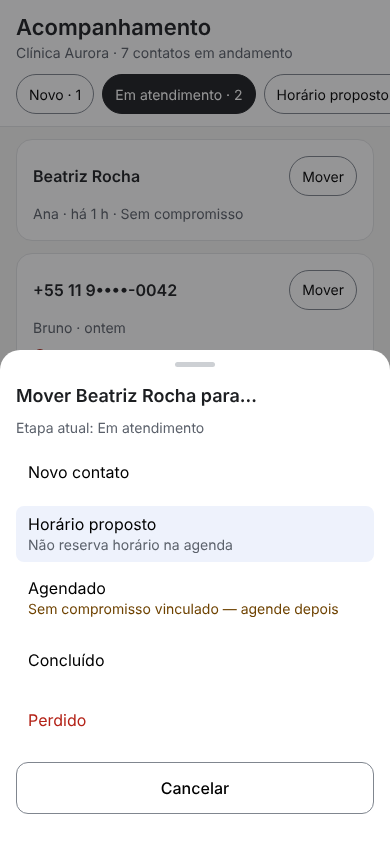
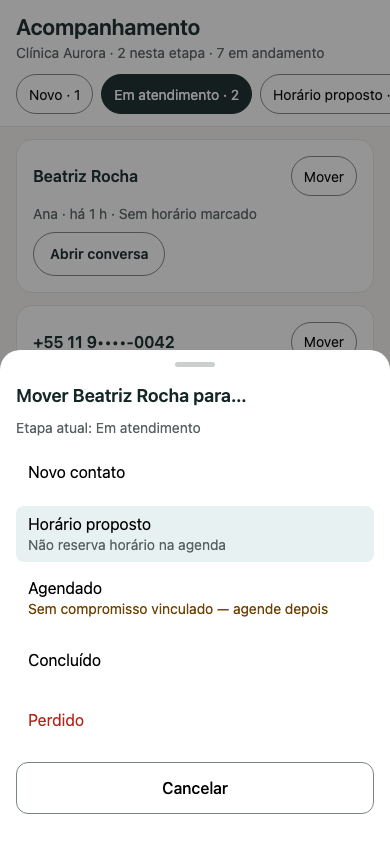
feat(painel): selo «Em breve» neutro, cabeçalho da conversa em 360 px, testes do Reservar bloco e mocks atualizados
- «Em breve» usa o tom neutro, sem competir com «Falta»
- o responsável no cabeçalho da conversa corta com reticências
- testes do Reservar bloco (resumo, «Outra», aviso opcional, janela fechada)
- mocks M-02 e M-05 (+ previews), screens.md e CHANGELOG do design

diff --git a/src/client/panel/screens/holds/ReservarBlocoSheet.test.tsx b/src/client/panel/screens/holds/ReservarBlocoSheet.test.tsx
@@ -1,0 +1,120 @@
+import { cleanup, render, screen, waitFor } from '@testing-library/react'
+import userEvent from '@testing-library/user-event'
+import { afterEach, beforeEach, describe, expect, it, vi } from 'vitest'
+import type { AvailabilitySlot, ClinicConfigSnapshot, PanelApi } from '../../api'
+import { civilMinuteToEpoch } from './holdFormat'
+import { ReservarBlocoSheet } from './ReservarBlocoSheet'
+
+const TZ = 'America/Sao_Paulo'
+
+function config(services: number): ClinicConfigSnapshot {
+  return {
+    settings: { tenantId: 't1', timezone: TZ, updatedAt: 1 },
+    services: Array.from({ length: services }, (_, i) => ({
+      id: `svc${i}`,
+      name: `Procedimento ${i + 1}`,
+      active: true,
+      durationMinutes: 60,
+      professionalIds: [],
+    })),
+    resources: [
+      { id: 'pro1', kind: 'professional', name: 'Dra. Ana', category: null, active: true, futureAppointmentCount: 0, createdAt: 1, updatedAt: 1 },
+    ],
+  } as unknown as ClinicConfigSnapshot
+}
+
+function setup(opts: { services?: number; windowOpen?: boolean } = {}) {
+  const onReserved = vi.fn()
+  const createHold = vi.fn().mockResolvedValue({})
+  const api = {
+    getClinicConfig: vi.fn().mockResolvedValue(config(opts.services ?? 1)),
+    queryAvailability: vi.fn().mockImplementation(async (_t: string, q: { date: string }) => {
+      const startsAt = civilMinuteToEpoch(q.date, 9 * 60, TZ)
+      const slot: AvailabilitySlot = {
+        startsAt,
+        endsAt: startsAt + 60 * 60_000,
+        occupiesUntil: startsAt + 60 * 60_000,
+        professionalId: 'pro1',
+        professionalName: 'Dra. Ana',
+        roomResourceId: null,
+        roomResourceName: null,
+      }
+      return { slots: [slot] }
+    }),
+    createHold,
+  } as unknown as PanelApi
+  render(
+    <ReservarBlocoSheet
+      open
+      tenantId="t1"
+      api={api}
+      generation={1}
+      conversationId="c1"
+      contactName="Maria Souza"
+      windowOpen={opts.windowOpen ?? true}
+      onClose={vi.fn()}
+      onReserved={onReserved}
+    />,
+  )
+  return { onReserved, createHold }
+}
+
+beforeEach(() => {
+  // 10h em São Paulo: o dia começa em hoje e o período em «Manhã».
+  vi.useFakeTimers({ toFake: ['Date'] })
+  vi.setSystemTime(new Date('2026-10-27T13:00:00Z'))
+})
+afterEach(() => {
+  cleanup()
+  vi.useRealTimers()
+})
+
+describe('ReservarBlocoSheet', () => {
+  it('com um único procedimento mostra o resumo e deixa «Alterar» abrir os campos', async () => {
+    setup()
+    expect(await screen.findByText('Procedimento 1 · Dra. Ana')).toBeTruthy()
+    await userEvent.click(screen.getByRole('button', { name: 'Alterar' }))
+    expect(screen.getByText('Procedimento')).toBeTruthy()
+  })
+
+  it('com vários procedimentos não escolhe nenhum sozinho', async () => {
+    setup({ services: 2 })
+    expect(await screen.findByText('Escolher procedimento')).toBeTruthy()
+    expect(screen.queryByRole('button', { name: 'Alterar' })).toBeNull()
+  })
+
+  it('o passo de 15 min só aparece depois de tocar em «Outra»', async () => {
+    setup()
+    await screen.findByText('Procedimento 1 · Dra. Ana')
+    expect(screen.queryByRole('button', { name: 'Mais 15 minutos' })).toBeNull()
+    await userEvent.click(screen.getByRole('button', { name: 'Outra' }))
+    expect(screen.getByRole('button', { name: 'Mais 15 minutos' })).toBeTruthy()
+  })
+
+  it('aviso à paciente vem ligado e envia o texto ao reservar', async () => {
+    const { onReserved, createHold } = setup()
+    const notify = await screen.findByRole('checkbox', { name: 'Avisar a paciente pelo WhatsApp' })
+    expect((notify as HTMLInputElement).checked).toBe(true)
+    await userEvent.click(await screen.findByRole('button', { name: /09:00 até 10:00/ }))
+    await userEvent.click(screen.getByRole('button', { name: 'Reservar horário' }))
+    await waitFor(() => expect(createHold).toHaveBeenCalled())
+    await waitFor(() => expect(onReserved).toHaveBeenCalled())
+    expect(typeof onReserved.mock.calls[0]![0]).toBe('string')
+  })
+
+  it('com o aviso desligado reserva sem mensagem', async () => {
+    const { onReserved, createHold } = setup()
+    await userEvent.click(await screen.findByRole('checkbox', { name: 'Avisar a paciente pelo WhatsApp' }))
+    expect(screen.getByText('A paciente não será avisada. O horário fica só na agenda.')).toBeTruthy()
+    await userEvent.click(await screen.findByRole('button', { name: /09:00 até 10:00/ }))
+    await userEvent.click(screen.getByRole('button', { name: 'Reservar horário' }))
+    await waitFor(() => expect(createHold).toHaveBeenCalled())
+    await waitFor(() => expect(onReserved).toHaveBeenCalledWith(null))
+  })
+
+  it('fora da janela de 24 h não oferece o aviso', async () => {
+    setup({ windowOpen: false })
+    await screen.findByText('Procedimento 1 · Dra. Ana')
+    expect(screen.queryByRole('checkbox', { name: 'Avisar a paciente pelo WhatsApp' })).toBeNull()
+  })
+})

diff --git a/docs/design/mobile/Pipeline.dc.html b/docs/design/mobile/Pipeline.dc.html
@@ -20,7 +20,7 @@ button:focus-visible,a:focus-visible{outline:2px solid #0E5A5C;outline-offset:2p
 <div style="position: relative; width: 390px; height: 844px; box-sizing: border-box; background: #F5F4EF; color: #142625; font-family: Inter, system-ui, sans-serif; font-size: 16px; line-height: 1.4; display: flex; flex-direction: column; overflow: hidden">
 
 <header style="background: #FFFFFF; padding: 12px 16px 12px; display: flex; flex-direction: column; gap: 12px; border-bottom: 1px solid #E1E3E0">
-<div style="display: flex; flex-direction: column"><h1 style="margin: 0; font-size: 22px; font-weight: 600">Acompanhamento</h1><span style="font-size: 14px; color: #566160">Clínica Aurora · 7 contatos em andamento</span></div>
+<div style="display: flex; flex-direction: column"><h1 style="margin: 0; font-size: 22px; font-weight: 600">Acompanhamento</h1><span style="font-size: 14px; color: #566160">Clínica Aurora · 2 nesta etapa · 7 em andamento</span></div>
 <div role="tablist" aria-label="Etapas" style="display: flex; gap: 8px; overflow-x: auto; margin: 0 -16px; padding: 0 16px">
 <button type="button" role="tab" aria-selected="false" style="flex: none; height: 40px; padding: 0 12px; border-radius: 999px; border: 1px solid #7A8584; background: #FFFFFF; font-size: 14px; cursor: pointer">Novo · 1</button>
 <button type="button" role="tab" aria-selected="true" style="flex: none; height: 40px; padding: 0 12px; border-radius: 999px; border: 1px solid #142625; background: #142625; color: #FFFFFF; font-size: 14px; cursor: pointer">Em atendimento · 2</button>
@@ -34,11 +34,13 @@ button:focus-visible,a:focus-visible{outline:2px solid #0E5A5C;outline-offset:2p
 <div role="tabpanel" style="flex: 1; overflow-y: auto; padding: 12px 16px; display: flex; flex-direction: column; gap: 12px">
 <article style="background: #FFFFFF; border: 1px solid #E1E3E0; border-radius: 16px; padding: 16px; display: flex; flex-direction: column; gap: 8px">
 <div style="display: flex; align-items: center; gap: 8px"><a href="Conversa.dc.html" style="flex: 1; font-weight: 600; color: #142625; text-decoration: none">Beatriz Rocha</a><button type="button" aria-haspopup="dialog" style="height: 40px; padding: 0 12px; border: 1px solid #7A8584; border-radius: 999px; background: #FFFFFF; font-size: 14px; cursor: pointer">Mover</button></div>
-<span style="font-size: 14px; color: #566160">Ana · há 1 h · Sem compromisso</span>
+<span style="font-size: 14px; color: #566160">Ana · há 1 h · Sem horário marcado</span>
+<button type="button" aria-label="Abrir conversa de Beatriz Rocha" style="align-self: flex-start; height: 44px; padding: 0 16px; border: 1px solid #7A8584; border-radius: 999px; background: #FFFFFF; color: #142625; font-size: 14px; font-weight: 600; cursor: pointer">Abrir conversa</button>
 </article>
 <article style="background: #FFFFFF; border: 1px solid #E1E3E0; border-radius: 16px; padding: 16px; display: flex; flex-direction: column; gap: 8px">
 <div style="display: flex; align-items: center; gap: 8px"><a href="Conversa.dc.html" style="flex: 1; font-weight: 600; color: #142625; text-decoration: none">+55 11 9••••-0042</a><button type="button" aria-haspopup="dialog" style="height: 40px; padding: 0 12px; border: 1px solid #7A8584; border-radius: 999px; background: #FFFFFF; font-size: 14px; cursor: pointer">Mover</button></div>
 <span style="font-size: 14px; color: #566160">Bruno · ontem</span>
+<button type="button" aria-label="Abrir conversa de +55 11 9••••-0042" style="align-self: flex-start; height: 44px; padding: 0 16px; border: 1px solid #7A8584; border-radius: 999px; background: #FFFFFF; color: #142625; font-size: 14px; font-weight: 600; cursor: pointer">Abrir conversa</button>
 <span style="display: flex; align-items: center; gap: 8px; font-size: 14px; color: #B42318; font-weight: 500"><svg aria-hidden="true" width="14" height="14" viewBox="0 0 24 24" fill="none" stroke="currentColor" stroke-width="2.4" stroke-linecap="round"><path d="M12 8v5"></path><path d="M12 17h.01"></path><circle cx="12" cy="12" r="9"></circle></svg>Resposta não enviada</span>
 </article>
 </div>

diff --git a/docs/design/mobile/Conversa.dc.html b/docs/design/mobile/Conversa.dc.html
@@ -26,7 +26,8 @@ button:focus-visible,a:focus-visible,textarea:focus-visible{outline:2px solid #0
 <span style="font-size: 18px; font-weight: 600">Juliana Prado</span>
 <span style="font-size: 14px; color: #566160">Horário proposto · toque para detalhes</span>
 </a>
-<button type="button" aria-label="Mais ações: transferir, encerrar" style="width: 44px; height: 44px; border: 0; background: transparent; border-radius: 999px; cursor: pointer; display: flex; align-items: center; justify-content: center"><svg aria-hidden="true" width="22" height="22" viewBox="0 0 24 24" fill="currentColor"><circle cx="12" cy="5" r="1.8"></circle><circle cx="12" cy="12" r="1.8"></circle><circle cx="12" cy="19" r="1.8"></circle></svg></button>
+<a href="Agendar.dc.html" aria-label="Agendar horário" style="flex: none; min-height: 44px; display: flex; align-items: center; gap: 4px; padding: 0 12px; border: 1px solid #7A8584; border-radius: 999px; background: #FFFFFF; color: #142625; font-size: 14px; font-weight: 600; text-decoration: none"><svg aria-hidden="true" width="20" height="20" viewBox="0 0 24 24" fill="none" stroke="currentColor" stroke-width="2" stroke-linecap="round" stroke-linejoin="round"><rect x="3" y="5" width="18" height="16" rx="2"></rect><path d="M8 3v4M16 3v4M3 10h18M12 13v5M9.5 15.5h5"></path></svg>Agendar</a>
+<button type="button" aria-label="Mais ações: reservar bloco, encerrar" style="width: 44px; height: 44px; border: 0; background: transparent; border-radius: 999px; cursor: pointer; display: flex; align-items: center; justify-content: center"><svg aria-hidden="true" width="22" height="22" viewBox="0 0 24 24" fill="currentColor"><circle cx="12" cy="5" r="1.8"></circle><circle cx="12" cy="12" r="1.8"></circle><circle cx="12" cy="19" r="1.8"></circle></svg></button>
 </div>
 <div style="display: flex; align-items: center; gap: 8px; padding: 8px 16px 12px; font-size: 14px; color: #424B4A">
 <span style="padding: 0 8px; border-radius: 8px; background: #EAF5EF; color: #1F7A4D; font-weight: 600">Em atendimento</span>

diff --git a/src/client/panel/screens/clinic/NavRow.tsx b/src/client/panel/screens/clinic/NavRow.tsx
@@ -29,7 +29,7 @@ export function NavRow({ icon: Icon, title, detail, state = 'neutral', soon, onP
         <strong>{title}</strong>
         <span>{detail}</span>
       </span>
-      {soon ? <Badge tone="wait">Em breve</Badge> : null}
+      {soon ? <Badge tone="closed">Em breve</Badge> : null}
       {state === 'todo' ? <Badge tone="wait">Falta</Badge> : null}
       {state === 'ok' ? <span className="panel-sr-only">Pronto</span> : null}
       {onPress ? <ChevronRight aria-hidden size={18} /> : null}

diff --git a/src/client/ui/panel.css b/src/client/ui/panel.css
@@ -4443,3 +4443,11 @@
   flex-direction: column;
   min-width: 0;
 }
+
+/* Cabeçalho da conversa: o responsável corta com reticências em vez de empurrar «Agendar» e o menu. */
+.inbox-thread-who .inbox-thread-sub > span:last-child {
+  min-width: 0;
+  overflow: hidden;
+  text-overflow: ellipsis;
+  white-space: nowrap;
+}

diff --git a/docs/design/screens.md b/docs/design/screens.md
@@ -9,10 +9,10 @@ Cada linha liga um mock a sua especificação. **A especificação manda:** em c
 | ID | Arquivo | Tela da spec | Jornadas · Requisitos · Cenários | Mostra | Navega para |
 | --- | --- | --- | --- | --- | --- |
 | M-01 | `Main` | TEL-01 lista | JRN-01, JRN-02, JRN-04 · REQ-010, REQ-020 · AC-04, AC-16 | Filtros (Todas, Novas, Minhas, Sem responsável, Encerradas), busca, item com estado da conversa, responsável e etapa, item com “Resposta não enviada”, badge de nova conversa na barra | M-02, M-05, M-06 |
-| M-02 | `Conversa` | TEL-01 conversa | JRN-02 · REQ-012, REQ-021, REQ-022 · AC-06 | Histórico com estados de envio, evento de sistema, bloco de sugestão da IA (Usar e editar, Gerar outra, Descartar), compositor com botão de IA e enviar | M-01, M-03 |
+| M-02 | `Conversa` | TEL-01 conversa | JRN-02 · REQ-012, REQ-021, REQ-022 · AC-06 | Histórico com estados de envio, evento de sistema, bloco de sugestão da IA (Usar e editar, Gerar outra, Descartar), compositor com botão de IA e enviar; cabeçalho com botão **Agendar** (ícone + texto) e menu ⋮ com «Reservar bloco» e, separada por divisor, «Encerrar conversa» (27/10/2026) | M-01, M-03 |
 | M-03 | `Contato` | TEL-01 detalhes | JRN-02, JRN-03 · REQ-023 · AC-08 | Etapa da oportunidade (seletor), aviso “não reserva horário”, resumo da IA, compromissos, botão fixo **Agendar horário** | M-02, M-04 |
 | M-04 | `Agendar` | TEL-05 | JRN-03 · REQ-030, REQ-031, REQ-033 · AC-09, AC-10 | Cabeçalho com contato real, serviços em cartões, profissionais em botões («Qualquer» primeiro), 5 dias com **Ver calendário**, horários em grade de 4 colunas (Manhã/Tarde), controle de duração −/+ em passos de 15 min só em serviços com «Duração ajustável» (DEC-051 Confirmado), rodapé fixo com resumo e **Revisar e confirmar** (Proposto) | M-03, M-35 |
-| M-05 | `Pipeline` | TEL-03, TEL-02 | JRN-03, JRN-04 · REQ-023 · AC-08 | Título e aba **Acompanhamento** (DEC-045; o arquivo mantém o nome); abas por etapa com contagem, cartões; **folha inferior “Mover para…”** aberta, com aviso de que “Horário proposto” não reserva e de que “Agendado” sem compromisso é permitido | M-02, M-01, M-06 |
+| M-05 | `Pipeline` | TEL-03, TEL-02 | JRN-03, JRN-04 · REQ-023 · AC-08 | Título e aba **Acompanhamento** (DEC-045; o arquivo mantém o nome); abas por etapa com contagem, cabeçalho «N nesta etapa · M em andamento», cartões com «Sem horário marcado» e botão **Abrir conversa** (27/10/2026); **folha inferior “Mover para…”** aberta, com aviso de que “Horário proposto” não reserva e de que “Agendado” sem compromisso é permitido | M-02, M-01, M-06 |
 | M-06 | `Agenda` | TEL-04 (dia) | JRN-03, JRN-04 · REQ-034 · AC-09, AC-13 | Lista do dia por horário, compromisso destacado como alterado por outra sessão, espaço livre com **Agendar**, bloqueio e fora do expediente | M-04, M-01, M-05 |
 | M-07 | `Reconectando` | TEL-07, 6.1, 6.2 | JRN-06, JRN-07 · REQ-012, REQ-042 · AC-07, AC-11 | Faixa **Reconectando**, os seis estados de envio (Enviando, Enviada, Entregue, Lida, Não enviada + Tentar de novo, Verificando envio), IA indisponível | M-01 |
 | M-08 | `Revogado` | TEL-07, 6.2 | JRN-07 · REQ-003 · AC-02 | “Seu acesso a esta clínica foi encerrado” em tela cheia, **Entrar novamente** | — |

diff --git a/docs/design/CHANGELOG.md b/docs/design/CHANGELOG.md
@@ -3,6 +3,13 @@
 Registra mudanças nos tokens e nos mocks. Mais recente primeiro. IDs de telas não são renumerados.
 
 
+## 27/10/2026 — Ajustes da revisão de UX do staging (#134–#139)
+
+- **M-02 Conversa:** botão **Agendar** com texto no cabeçalho; menu ⋮ passa a dizer «reservar bloco, encerrar».
+- **M-05 Pipeline (Acompanhamento):** cabeçalho «N nesta etapa · M em andamento»; «Sem compromisso» → «Sem horário marcado»; botão **Abrir conversa** em cada cartão. O botão **Mover** não muda.
+- **Reservar bloco** não tem mock próprio em `mobile/`; o comportamento novo (chips de dia como no Agendar, resumo com «Alterar», «Outra» para duração, aviso à paciente opcional) está só no painel. Pendente: desenhar o mock.
+- Previews M-02 e M-05: ver a nota do PR sobre a renderização.
+
 ## Tokens 0.3.0 — 27/10/2026 (Confirmado)
 
 **Aprovado pelo responsável pelo produto em 27/10/2026** (DEC-050 e DEC-041): a cor de ação passa do azul à cor da marca (Petróleo) e os neutros ganham um leve matiz da Tinta. Estrutura, tipografia, formas, espaçamento e as cores semânticas (sucesso, aviso, perigo, IA) não mudam. Conversão aplicada aos mocks mobile e desktop, ao catálogo, ao painel, ao login Clerk e ao site:
